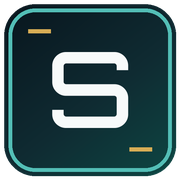
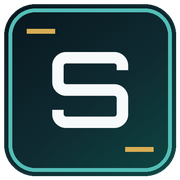
Strengthen monogram accent bars

Changed region(s): [[0.1389, 0.1389, 0.3333, 0.1944], [0.6944, 0.8056, 0.8611, 0.8611]]

diff --git a/index.html b/index.html
@@ -4,14 +4,14 @@
   <meta charset="utf-8">
   <meta name="viewport" content="width=device-width, initial-scale=1">
   <script>document.documentElement.dataset.theme = localStorage.getItem("sajid-site-theme-v2") || "dark";</script>
-  <link rel="icon" type="image/png" sizes="16x16" href="assets/favicon-16.png?v=20260919-robot2">
-  <link rel="icon" href="favicon.ico?v=20260919-robot2" sizes="any">
-  <link rel="icon" type="image/png" sizes="32x32" href="assets/favicon-32.png?v=20260919-robot2">
-  <link rel="icon" type="image/png" sizes="192x192" href="assets/favicon-192.png?v=20260919-robot2">
-  <link rel="apple-touch-icon" sizes="180x180" href="assets/apple-touch-icon.png?v=20260919-robot2">
+  <link rel="icon" type="image/png" sizes="16x16" href="assets/favicon-16.png?v=20260919-robot3">
+  <link rel="icon" href="favicon.ico?v=20260919-robot3" sizes="any">
+  <link rel="icon" type="image/png" sizes="32x32" href="assets/favicon-32.png?v=20260919-robot3">
+  <link rel="icon" type="image/png" sizes="192x192" href="assets/favicon-192.png?v=20260919-robot3">
+  <link rel="apple-touch-icon" sizes="180x180" href="assets/apple-touch-icon.png?v=20260919-robot3">
   <title>Md. Sajid Alam Chowdhury | Trustworthy Multimodal AI</title>
   <meta name="description" content="Md. Sajid Alam Chowdhury is a Computer Science PhD student at Wayne State University researching trustworthy multimodal AI, privacy-aware vision-language reasoning, adversarial robustness, and long-horizon video understanding.">
-  <link rel="stylesheet" href="assets/site.css?v=20260919-robot2">
+  <link rel="stylesheet" href="assets/site.css?v=20260919-robot3">
   <script src="assets/lucide.min.js?v=20260913-polish70" defer></script>
   <script src="assets/site.js?v=20260913-polish71" defer></script>
 </head>

diff --git a/publications/unified-adversarial-defence-2026.html b/publications/unified-adversarial-defence-2026.html
@@ -4,14 +4,14 @@
   <meta charset="utf-8">
   <meta name="viewport" content="width=device-width, initial-scale=1">
   <script>document.documentElement.dataset.theme = localStorage.getItem("sajid-site-theme-v2") || "dark";</script>
-  <link rel="icon" type="image/png" sizes="16x16" href="../assets/favicon-16.png?v=20260919-robot2">
-  <link rel="icon" href="../favicon.ico?v=20260919-robot2" sizes="any">
-  <link rel="icon" type="image/png" sizes="32x32" href="../assets/favicon-32.png?v=20260919-robot2">
-  <link rel="icon" type="image/png" sizes="192x192" href="../assets/favicon-192.png?v=20260919-robot2">
-  <link rel="apple-touch-icon" sizes="180x180" href="../assets/apple-touch-icon.png?v=20260919-robot2">
+  <link rel="icon" type="image/png" sizes="16x16" href="../assets/favicon-16.png?v=20260919-robot3">
+  <link rel="icon" href="../favicon.ico?v=20260919-robot3" sizes="any">
+  <link rel="icon" type="image/png" sizes="32x32" href="../assets/favicon-32.png?v=20260919-robot3">
+  <link rel="icon" type="image/png" sizes="192x192" href="../assets/favicon-192.png?v=20260919-robot3">
+  <link rel="apple-touch-icon" sizes="180x180" href="../assets/apple-touch-icon.png?v=20260919-robot3">
   <title>A Unified Adversarial Defence Framework · Md. Sajid Alam Chowdhury</title>
   <meta name="description" content="Paper page for A Unified Adversarial Defence Framework by Md. Sajid Alam Chowdhury, Md. Khairul Islam, and Kaushik Deb.">
-  <link rel="stylesheet" href="../assets/site.css?v=20260919-robot2">
+  <link rel="stylesheet" href="../assets/site.css?v=20260919-robot3">
   <script src="../assets/lucide.min.js?v=20260913-polish70" defer></script>
   <script src="../assets/site.js?v=20260913-polish71" defer></script>
 </head>

diff --git a/research.html b/research.html
@@ -4,14 +4,14 @@
   <meta charset="utf-8">
   <meta name="viewport" content="width=device-width, initial-scale=1">
   <script>document.documentElement.dataset.theme = localStorage.getItem("sajid-site-theme-v2") || "dark";</script>
-  <link rel="icon" type="image/png" sizes="16x16" href="assets/favicon-16.png?v=20260919-robot2">
-  <link rel="icon" href="favicon.ico?v=20260919-robot2" sizes="any">
-  <link rel="icon" type="image/png" sizes="32x32" href="assets/favicon-32.png?v=20260919-robot2">
-  <link rel="icon" type="image/png" sizes="192x192" href="assets/favicon-192.png?v=20260919-robot2">
-  <link rel="apple-touch-icon" sizes="180x180" href="assets/apple-touch-icon.png?v=20260919-robot2">
+  <link rel="icon" type="image/png" sizes="16x16" href="assets/favicon-16.png?v=20260919-robot3">
+  <link rel="icon" href="favicon.ico?v=20260919-robot3" sizes="any">
+  <link rel="icon" type="image/png" sizes="32x32" href="assets/favicon-32.png?v=20260919-robot3">
+  <link rel="icon" type="image/png" sizes="192x192" href="assets/favicon-192.png?v=20260919-robot3">
+  <link rel="apple-touch-icon" sizes="180x180" href="assets/apple-touch-icon.png?v=20260919-robot3">
   <title>Research · Md. Sajid Alam Chowdhury</title>
   <meta name="description" content="Research profile of Md. Sajid Alam Chowdhury in trustworthy multimodal AI, Privacy-Aware Vision-Language Reasoning, Adversarial Robustness &amp; Security, and Long-Horizon Video Understanding.">
-  <link rel="stylesheet" href="assets/site.css?v=20260919-robot2">
+  <link rel="stylesheet" href="assets/site.css?v=20260919-robot3">
   <script src="assets/lucide.min.js?v=20260913-polish70" defer></script>
   <script src="assets/site.js?v=20260913-polish71" defer></script>
 </head>

diff --git a/publications/ddpm-adversarial-purification-2026.html b/publications/ddpm-adversarial-purification-2026.html
@@ -4,14 +4,14 @@
   <meta charset="utf-8">
   <meta name="viewport" content="width=device-width, initial-scale=1">
   <script>document.documentElement.dataset.theme = localStorage.getItem("sajid-site-theme-v2") || "dark";</script>
-  <link rel="icon" type="image/png" sizes="16x16" href="../assets/favicon-16.png?v=20260919-robot2">
-  <link rel="icon" href="../favicon.ico?v=20260919-robot2" sizes="any">
-  <link rel="icon" type="image/png" sizes="32x32" href="../assets/favicon-32.png?v=20260919-robot2">
-  <link rel="icon" type="image/png" sizes="192x192" href="../assets/favicon-192.png?v=20260919-robot2">
-  <link rel="apple-touch-icon" sizes="180x180" href="../assets/apple-touch-icon.png?v=20260919-robot2">
+  <link rel="icon" type="image/png" sizes="16x16" href="../assets/favicon-16.png?v=20260919-robot3">
+  <link rel="icon" href="../favicon.ico?v=20260919-robot3" sizes="any">
+  <link rel="icon" type="image/png" sizes="32x32" href="../assets/favicon-32.png?v=20260919-robot3">
+  <link rel="icon" type="image/png" sizes="192x192" href="../assets/favicon-192.png?v=20260919-robot3">
+  <link rel="apple-touch-icon" sizes="180x180" href="../assets/apple-touch-icon.png?v=20260919-robot3">
   <title>DDPM-Based Adversarial Purification · Md. Sajid Alam Chowdhury</title>
   <meta name="description" content="Paper page for Towards Developing a DDPM-Based Adversarial Purification Method with Noise-Guided Timestep Selection.">
-  <link rel="stylesheet" href="../assets/site.css?v=20260919-robot2">
+  <link rel="stylesheet" href="../assets/site.css?v=20260919-robot3">
   <script src="../assets/lucide.min.js?v=20260913-polish70" defer></script>
   <script src="../assets/site.js?v=20260913-polish71" defer></script>
 </head>

diff --git a/projects.html b/projects.html
@@ -4,14 +4,14 @@
   <meta charset="utf-8">
   <meta name="viewport" content="width=device-width, initial-scale=1">
   <script>document.documentElement.dataset.theme = localStorage.getItem("sajid-site-theme-v2") || "dark";</script>
-  <link rel="icon" type="image/png" sizes="16x16" href="assets/favicon-16.png?v=20260919-robot2">
-  <link rel="icon" href="favicon.ico?v=20260919-robot2" sizes="any">
-  <link rel="icon" type="image/png" sizes="32x32" href="assets/favicon-32.png?v=20260919-robot2">
-  <link rel="icon" type="image/png" sizes="192x192" href="assets/favicon-192.png?v=20260919-robot2">
-  <link rel="apple-touch-icon" sizes="180x180" href="assets/apple-touch-icon.png?v=20260919-robot2">
+  <link rel="icon" type="image/png" sizes="16x16" href="assets/favicon-16.png?v=20260919-robot3">
+  <link rel="icon" href="favicon.ico?v=20260919-robot3" sizes="any">
+  <link rel="icon" type="image/png" sizes="32x32" href="assets/favicon-32.png?v=20260919-robot3">
+  <link rel="icon" type="image/png" sizes="192x192" href="assets/favicon-192.png?v=20260919-robot3">
+  <link rel="apple-touch-icon" sizes="180x180" href="assets/apple-touch-icon.png?v=20260919-robot3">
   <title>Research Areas · Md. Sajid Alam Chowdhury</title>
   <meta name="description" content="Research areas for Md. Sajid Alam Chowdhury: Privacy-Aware Vision-Language Reasoning, Adversarial Robustness &amp; Security, and Long-Horizon Video Understanding.">
-  <link rel="stylesheet" href="assets/site.css?v=20260919-robot2">
+  <link rel="stylesheet" href="assets/site.css?v=20260919-robot3">
   <script src="assets/lucide.min.js?v=20260913-polish70" defer></script>
   <script src="assets/site.js?v=20260913-polish71" defer></script>
 </head>

diff --git a/publications.html b/publications.html
@@ -4,14 +4,14 @@
   <meta charset="utf-8">
   <meta name="viewport" content="width=device-width, initial-scale=1">
   <script>document.documentElement.dataset.theme = localStorage.getItem("sajid-site-theme-v2") || "dark";</script>
-  <link rel="icon" type="image/png" sizes="16x16" href="assets/favicon-16.png?v=20260919-robot2">
-  <link rel="icon" href="favicon.ico?v=20260919-robot2" sizes="any">
-  <link rel="icon" type="image/png" sizes="32x32" href="assets/favicon-32.png?v=20260919-robot2">
-  <link rel="icon" type="image/png" sizes="192x192" href="assets/favicon-192.png?v=20260919-robot2">
-  <link rel="apple-touch-icon" sizes="180x180" href="assets/apple-touch-icon.png?v=20260919-robot2">
+  <link rel="icon" type="image/png" sizes="16x16" href="assets/favicon-16.png?v=20260919-robot3">
+  <link rel="icon" href="favicon.ico?v=20260919-robot3" sizes="any">
+  <link rel="icon" type="image/png" sizes="32x32" href="assets/favicon-32.png?v=20260919-robot3">
+  <link rel="icon" type="image/png" sizes="192x192" href="assets/favicon-192.png?v=20260919-robot3">
+  <link rel="apple-touch-icon" sizes="180x180" href="assets/apple-touch-icon.png?v=20260919-robot3">
   <title>Publications · Md. Sajid Alam Chowdhury</title>
   <meta name="description" content="Publications by Md. Sajid Alam Chowdhury in adversarial defense, multimodal learning, NLP, and trustworthy AI.">
-  <link rel="stylesheet" href="assets/site.css?v=20260919-robot2">
+  <link rel="stylesheet" href="assets/site.css?v=20260919-robot3">
   <script src="assets/lucide.min.js?v=20260913-polish70" defer></script>
   <script src="assets/site.js?v=20260913-polish71" defer></script>
 </head>

diff --git a/publications/dravidianlangtech-2025.html b/publications/dravidianlangtech-2025.html
@@ -4,14 +4,14 @@
   <meta charset="utf-8">
   <meta name="viewport" content="width=device-width, initial-scale=1">
   <script>document.documentElement.dataset.theme = localStorage.getItem("sajid-site-theme-v2") || "dark";</script>
-  <link rel="icon" type="image/png" sizes="16x16" href="../assets/favicon-16.png?v=20260919-robot2">
-  <link rel="icon" href="../favicon.ico?v=20260919-robot2" sizes="any">
-  <link rel="icon" type="image/png" sizes="32x32" href="../assets/favicon-32.png?v=20260919-robot2">
-  <link rel="icon" type="image/png" sizes="192x192" href="../assets/favicon-192.png?v=20260919-robot2">
-  <link rel="apple-touch-icon" sizes="180x180" href="../assets/apple-touch-icon.png?v=20260919-robot2">
+  <link rel="icon" type="image/png" sizes="16x16" href="../assets/favicon-16.png?v=20260919-robot3">
+  <link rel="icon" href="../favicon.ico?v=20260919-robot3" sizes="any">
+  <link rel="icon" type="image/png" sizes="32x32" href="../assets/favicon-32.png?v=20260919-robot3">
+  <link rel="icon" type="image/png" sizes="192x192" href="../assets/favicon-192.png?v=20260919-robot3">
+  <link rel="apple-touch-icon" sizes="180x180" href="../assets/apple-touch-icon.png?v=20260919-robot3">
   <title>DravidianLangTech 2025 · Md. Sajid Alam Chowdhury</title>
   <meta name="description" content="Paper page for Fired_from_NLP@DravidianLangTech 2025.">
-  <link rel="stylesheet" href="../assets/site.css?v=20260919-robot2">
+  <link rel="stylesheet" href="../assets/site.css?v=20260919-robot3">
   <script src="../assets/lucide.min.js?v=20260913-polish70" defer></script>
   <script src="../assets/site.js?v=20260913-polish71" defer></script>
 </head>

diff --git a/publications/semeval-2024.html b/publications/semeval-2024.html
@@ -4,14 +4,14 @@
   <meta charset="utf-8">
   <meta name="viewport" content="width=device-width, initial-scale=1">
   <script>document.documentElement.dataset.theme = localStorage.getItem("sajid-site-theme-v2") || "dark";</script>
-  <link rel="icon" type="image/png" sizes="16x16" href="../assets/favicon-16.png?v=20260919-robot2">
-  <link rel="icon" href="../favicon.ico?v=20260919-robot2" sizes="any">
-  <link rel="icon" type="image/png" sizes="32x32" href="../assets/favicon-32.png?v=20260919-robot2">
-  <link rel="icon" type="image/png" sizes="192x192" href="../assets/favicon-192.png?v=20260919-robot2">
-  <link rel="apple-touch-icon" sizes="180x180" href="../assets/apple-touch-icon.png?v=20260919-robot2">
+  <link rel="icon" type="image/png" sizes="16x16" href="../assets/favicon-16.png?v=20260919-robot3">
+  <link rel="icon" href="../favicon.ico?v=20260919-robot3" sizes="any">
+  <link rel="icon" type="image/png" sizes="32x32" href="../assets/favicon-32.png?v=20260919-robot3">
+  <link rel="icon" type="image/png" sizes="192x192" href="../assets/favicon-192.png?v=20260919-robot3">
+  <link rel="apple-touch-icon" sizes="180x180" href="../assets/apple-touch-icon.png?v=20260919-robot3">
   <title>SemEval 2024 · Md. Sajid Alam Chowdhury</title>
   <meta name="description" content="Paper page for Fired_from_NLP at SemEval-2024 Task 1.">
-  <link rel="stylesheet" href="../assets/site.css?v=20260919-robot2">
+  <link rel="stylesheet" href="../assets/site.css?v=20260919-robot3">
   <script src="../assets/lucide.min.js?v=20260913-polish70" defer></script>
   <script src="../assets/site.js?v=20260913-polish71" defer></script>
 </head>

diff --git a/publications/checkthat-2024.html b/publications/checkthat-2024.html
@@ -4,14 +4,14 @@
   <meta charset="utf-8">
   <meta name="viewport" content="width=device-width, initial-scale=1">
   <script>document.documentElement.dataset.theme = localStorage.getItem("sajid-site-theme-v2") || "dark";</script>
-  <link rel="icon" type="image/png" sizes="16x16" href="../assets/favicon-16.png?v=20260919-robot2">
-  <link rel="icon" href="../favicon.ico?v=20260919-robot2" sizes="any">
-  <link rel="icon" type="image/png" sizes="32x32" href="../assets/favicon-32.png?v=20260919-robot2">
-  <link rel="icon" type="image/png" sizes="192x192" href="../assets/favicon-192.png?v=20260919-robot2">
-  <link rel="apple-touch-icon" sizes="180x180" href="../assets/apple-touch-icon.png?v=20260919-robot2">
+  <link rel="icon" type="image/png" sizes="16x16" href="../assets/favicon-16.png?v=20260919-robot3">
+  <link rel="icon" href="../favicon.ico?v=20260919-robot3" sizes="any">
+  <link rel="icon" type="image/png" sizes="32x32" href="../assets/favicon-32.png?v=20260919-robot3">
+  <link rel="icon" type="image/png" sizes="192x192" href="../assets/favicon-192.png?v=20260919-robot3">
+  <link rel="apple-touch-icon" sizes="180x180" href="../assets/apple-touch-icon.png?v=20260919-robot3">
   <title>CheckThat! 2024 · Md. Sajid Alam Chowdhury</title>
   <meta name="description" content="Paper page for Fired_from_NLP at CheckThat! 2024.">
-  <link rel="stylesheet" href="../assets/site.css?v=20260919-robot2">
+  <link rel="stylesheet" href="../assets/site.css?v=20260919-robot3">
   <script src="../assets/lucide.min.js?v=20260913-polish70" defer></script>
   <script src="../assets/site.js?v=20260913-polish71" defer></script>
 </head>

diff --git a/publications/arafinnlp-2024.html b/publications/arafinnlp-2024.html
@@ -4,14 +4,14 @@
   <meta charset="utf-8">
   <meta name="viewport" content="width=device-width, initial-scale=1">
   <script>document.documentElement.dataset.theme = localStorage.getItem("sajid-site-theme-v2") || "dark";</script>
-  <link rel="icon" type="image/png" sizes="16x16" href="../assets/favicon-16.png?v=20260919-robot2">
-  <link rel="icon" href="../favicon.ico?v=20260919-robot2" sizes="any">
-  <link rel="icon" type="image/png" sizes="32x32" href="../assets/favicon-32.png?v=20260919-robot2">
-  <link rel="icon" type="image/png" sizes="192x192" href="../assets/favicon-192.png?v=20260919-robot2">
-  <link rel="apple-touch-icon" sizes="180x180" href="../assets/apple-touch-icon.png?v=20260919-robot2">
+  <link rel="icon" type="image/png" sizes="16x16" href="../assets/favicon-16.png?v=20260919-robot3">
+  <link rel="icon" href="../favicon.ico?v=20260919-robot3" sizes="any">
+  <link rel="icon" type="image/png" sizes="32x32" href="../assets/favicon-32.png?v=20260919-robot3">
+  <link rel="icon" type="image/png" sizes="192x192" href="../assets/favicon-192.png?v=20260919-robot3">
+  <link rel="apple-touch-icon" sizes="180x180" href="../assets/apple-touch-icon.png?v=20260919-robot3">
   <title>AraFinNLP 2024 · Md. Sajid Alam Chowdhury</title>
   <meta name="description" content="Paper page for Fired_from_NLP at AraFinNLP 2024.">
-  <link rel="stylesheet" href="../assets/site.css?v=20260919-robot2">
+  <link rel="stylesheet" href="../assets/site.css?v=20260919-robot3">
   <script src="../assets/lucide.min.js?v=20260913-polish70" defer></script>
   <script src="../assets/site.js?v=20260913-polish71" defer></script>
 </head>

diff --git a/updates.html b/updates.html
@@ -4,14 +4,14 @@
   <meta charset="utf-8">
   <meta name="viewport" content="width=device-width, initial-scale=1">
   <script>document.documentElement.dataset.theme = localStorage.getItem("sajid-site-theme-v2") || "dark";</script>
-  <link rel="icon" type="image/png" sizes="16x16" href="assets/favicon-16.png?v=20260919-robot2">
-  <link rel="icon" href="favicon.ico?v=20260919-robot2" sizes="any">
-  <link rel="icon" type="image/png" sizes="32x32" href="assets/favicon-32.png?v=20260919-robot2">
-  <link rel="icon" type="image/png" sizes="192x192" href="assets/favicon-192.png?v=20260919-robot2">
-  <link rel="apple-touch-icon" sizes="180x180" href="assets/apple-touch-icon.png?v=20260919-robot2">
+  <link rel="icon" type="image/png" sizes="16x16" href="assets/favicon-16.png?v=20260919-robot3">
+  <link rel="icon" href="favicon.ico?v=20260919-robot3" sizes="any">
+  <link rel="icon" type="image/png" sizes="32x32" href="assets/favicon-32.png?v=20260919-robot3">
+  <link rel="icon" type="image/png" sizes="192x192" href="assets/favicon-192.png?v=20260919-robot3">
+  <link rel="apple-touch-icon" sizes="180x180" href="assets/apple-touch-icon.png?v=20260919-robot3">
   <title>Updates · Md. Sajid Alam Chowdhury</title>
   <meta name="description" content="Recent academic, publication, award, and career updates from Md. Sajid Alam Chowdhury.">
-  <link rel="stylesheet" href="assets/site.css?v=20260919-robot2">
+  <link rel="stylesheet" href="assets/site.css?v=20260919-robot3">
   <script src="assets/lucide.min.js?v=20260913-polish70" defer></script>
   <script src="assets/site.js?v=20260913-polish71" defer></script>
 </head>

diff --git a/cv.html b/cv.html
@@ -4,14 +4,14 @@
   <meta charset="utf-8">
   <meta name="viewport" content="width=device-width, initial-scale=1">
   <script>document.documentElement.dataset.theme = localStorage.getItem("sajid-site-theme-v2") || "dark";</script>
-  <link rel="icon" type="image/png" sizes="16x16" href="assets/favicon-16.png?v=20260919-robot2">
-  <link rel="icon" href="favicon.ico?v=20260919-robot2" sizes="any">
-  <link rel="icon" type="image/png" sizes="32x32" href="assets/favicon-32.png?v=20260919-robot2">
-  <link rel="icon" type="image/png" sizes="192x192" href="assets/favicon-192.png?v=20260919-robot2">
-  <link rel="apple-touch-icon" sizes="180x180" href="assets/apple-touch-icon.png?v=20260919-robot2">
+  <link rel="icon" type="image/png" sizes="16x16" href="assets/favicon-16.png?v=20260919-robot3">
+  <link rel="icon" href="favicon.ico?v=20260919-robot3" sizes="any">
+  <link rel="icon" type="image/png" sizes="32x32" href="assets/favicon-32.png?v=20260919-robot3">
+  <link rel="icon" type="image/png" sizes="192x192" href="assets/favicon-192.png?v=20260919-robot3">
+  <link rel="apple-touch-icon" sizes="180x180" href="assets/apple-touch-icon.png?v=20260919-robot3">
   <title>Curriculum Vitae · Md. Sajid Alam Chowdhury</title>
   <meta name="description" content="Download the CV of Md. Sajid Alam Chowdhury.">
-  <link rel="stylesheet" href="assets/site.css?v=20260919-robot2">
+  <link rel="stylesheet" href="assets/site.css?v=20260919-robot3">
   <script src="assets/lucide.min.js?v=20260913-polish70" defer></script>
   <script src="assets/site.js?v=20260913-polish71" defer></script>
 </head>
